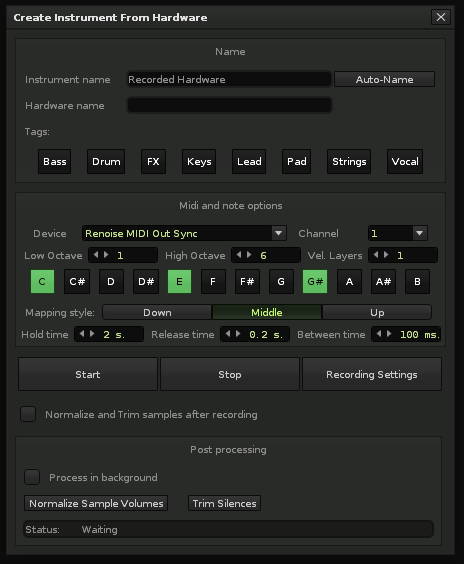
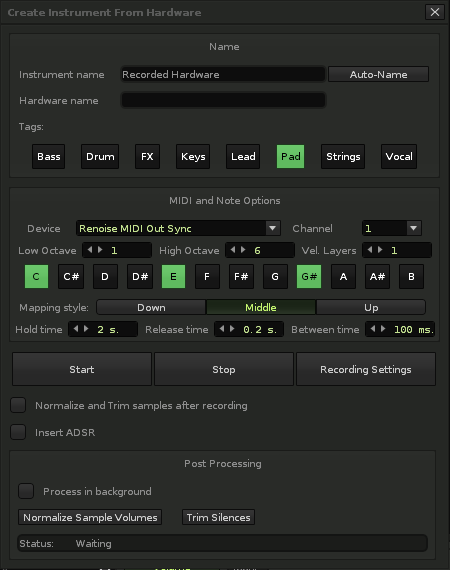
updated readme and menu.png

diff --git a/README.md b/README.md
@@ -25,17 +25,7 @@ The general idea of this tool is to automate the process of recording played not
 
 To use the tool, right click on the waveform editor and choose "Record Samples from MIDI Hardware".
 
-The buttons have the following functions:
-
-#### Start, Stop, Recording Settings
-
-##### Start
-
-Starts the recording process.
-
-##### Stop
-
-Stops the recording process.
+### Tool Configuration and Features
 
 ##### Recording Settings
 
@@ -43,7 +33,7 @@ Opens the Renoise sample recording window. **You must change the settings in thi
 
 This is a good time to make sure that Renoise can hear your hardware. Play a note and the indicator at the top of the sample recorder window should react to the audio.
 
-*Note* make sure the "Create a new Instrument on each take" option in the Sample Recorder window is unchecked.
+**Note* make sure the "Create a new Instrument on each take" option in the Sample Recorder window is unchecked.
 
 #### Midi and note options
 
@@ -98,6 +88,26 @@ The amount of time to wait, after releasing the note, to stop recording the samp
 ##### Between Time
 
 Time between the end of each sample recording and the start of the next one. Increase this if you find that not every sample gets stored into its slot in time because Renoise is still processing the recorded sample when the next sample recording starts.
+
+#### Start, Stop, Recording Settings
+
+##### Start
+
+Starts the recording process.
+
+##### Stop
+
+Stops the recording process.
+
+#### Normalize and Trim samples after recordings
+
+When this is enabled, normalization and trimming of the samples will take place imediately after the sample recording job has finished. The "Process in background" feature will apply here as well.
+
+#### Insert ADSR
+
+When enabled, a "Volume AHDSR" envelope will be inserted into the **first** slot of the instrument's Modulation settings. When toggled off, the module will be removed but only if it's in the **first** slot of the instrument's Modulation settings.
+
+**Note**, if the "Pad" or "Strings" tags are selected, the Release time of the envelope will be set to around 4 seconds. If any tags, including none, are selected, the default 1 second Release time will be applied.
 
 #### Post processing
 
